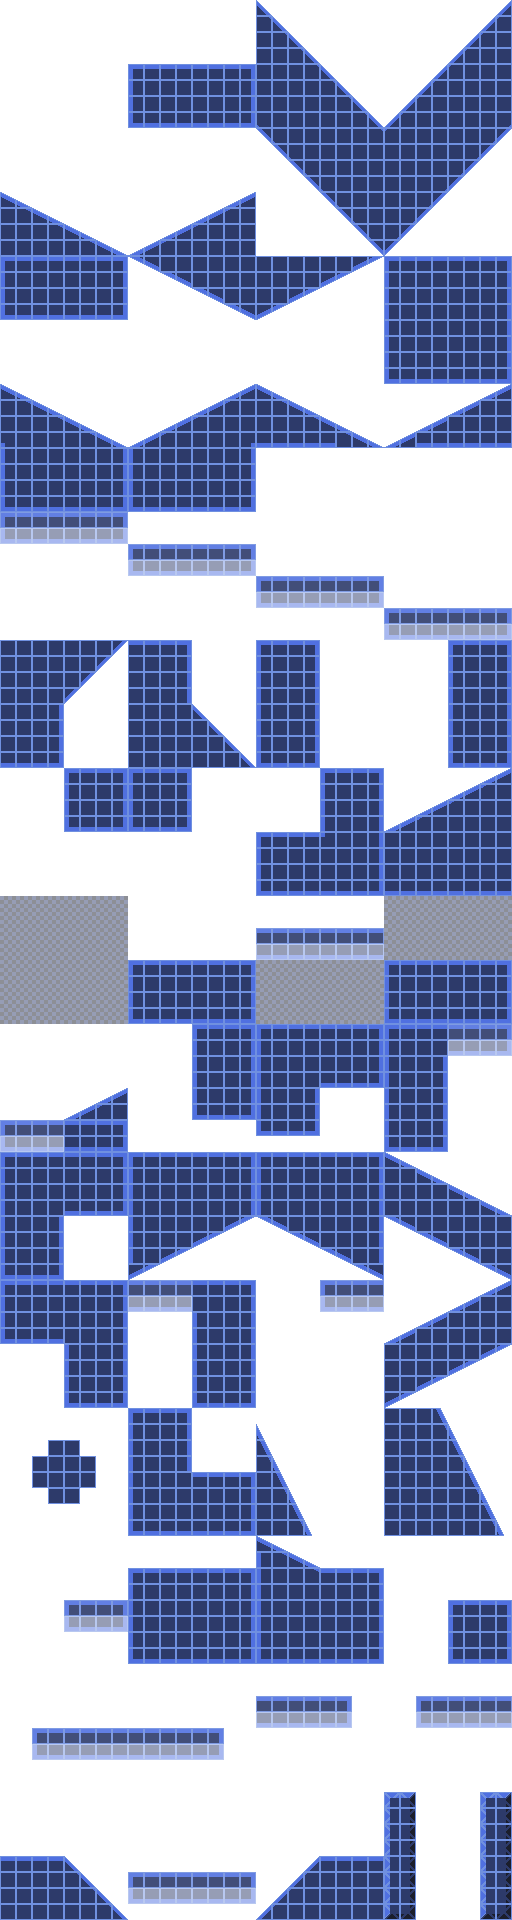
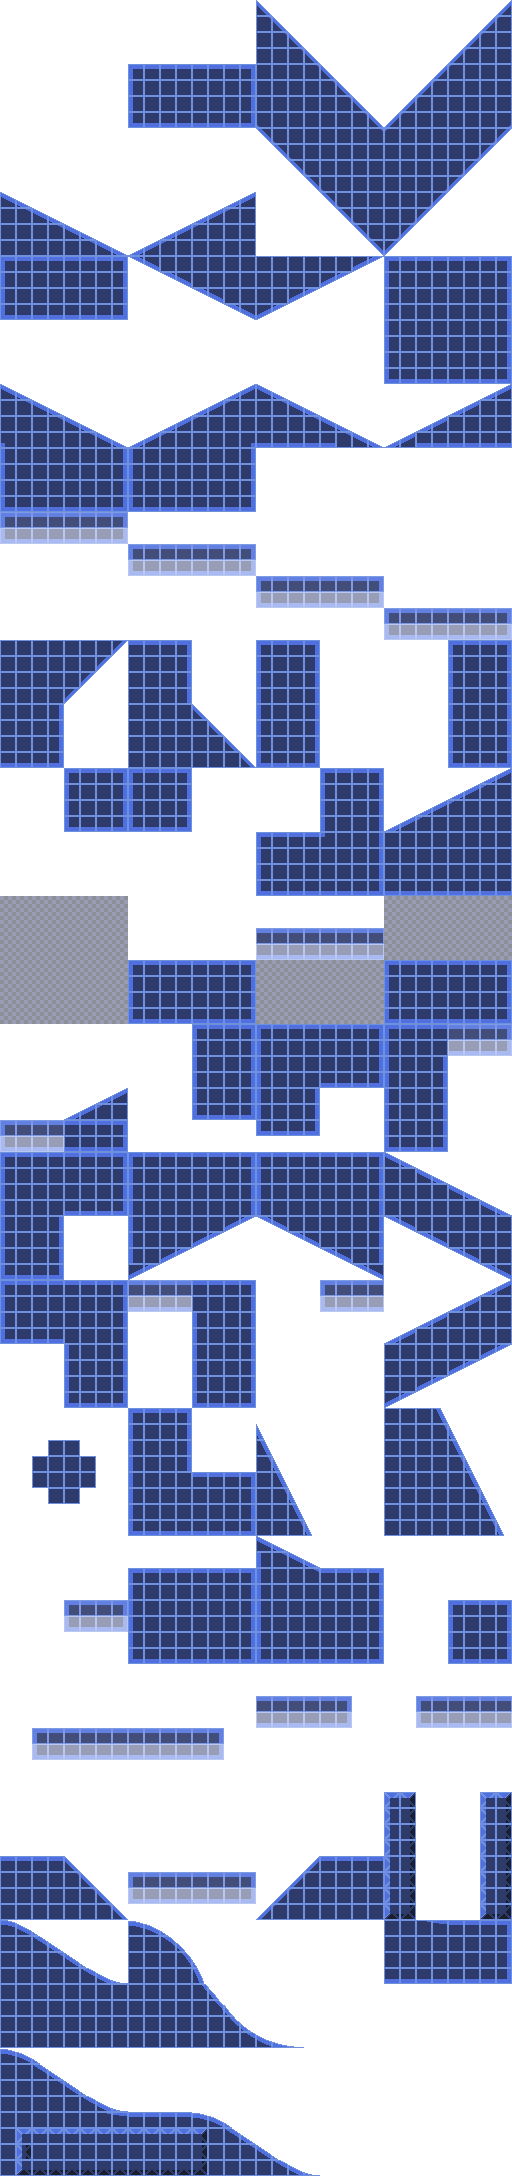
Changes to R0Z1

diff --git a/assets/levels/R0/tiles16.tsx b/assets/levels/R0/tiles16.tsx
@@ -590,6 +590,13 @@
    </object>
   </objectgroup>
  </tile>
+ <tile id="103">
+  <objectgroup draworder="index" id="2">
+   <object id="1" x="0" y="0">
+    <polygon points="0,0 7.90909,-0.0909091 16,5.27273 16,16 0,16"/>
+   </object>
+  </objectgroup>
+ </tile>
  <tile id="104">
   <objectgroup draworder="index" id="2">
    <object id="1" x="0" y="6.1875">
